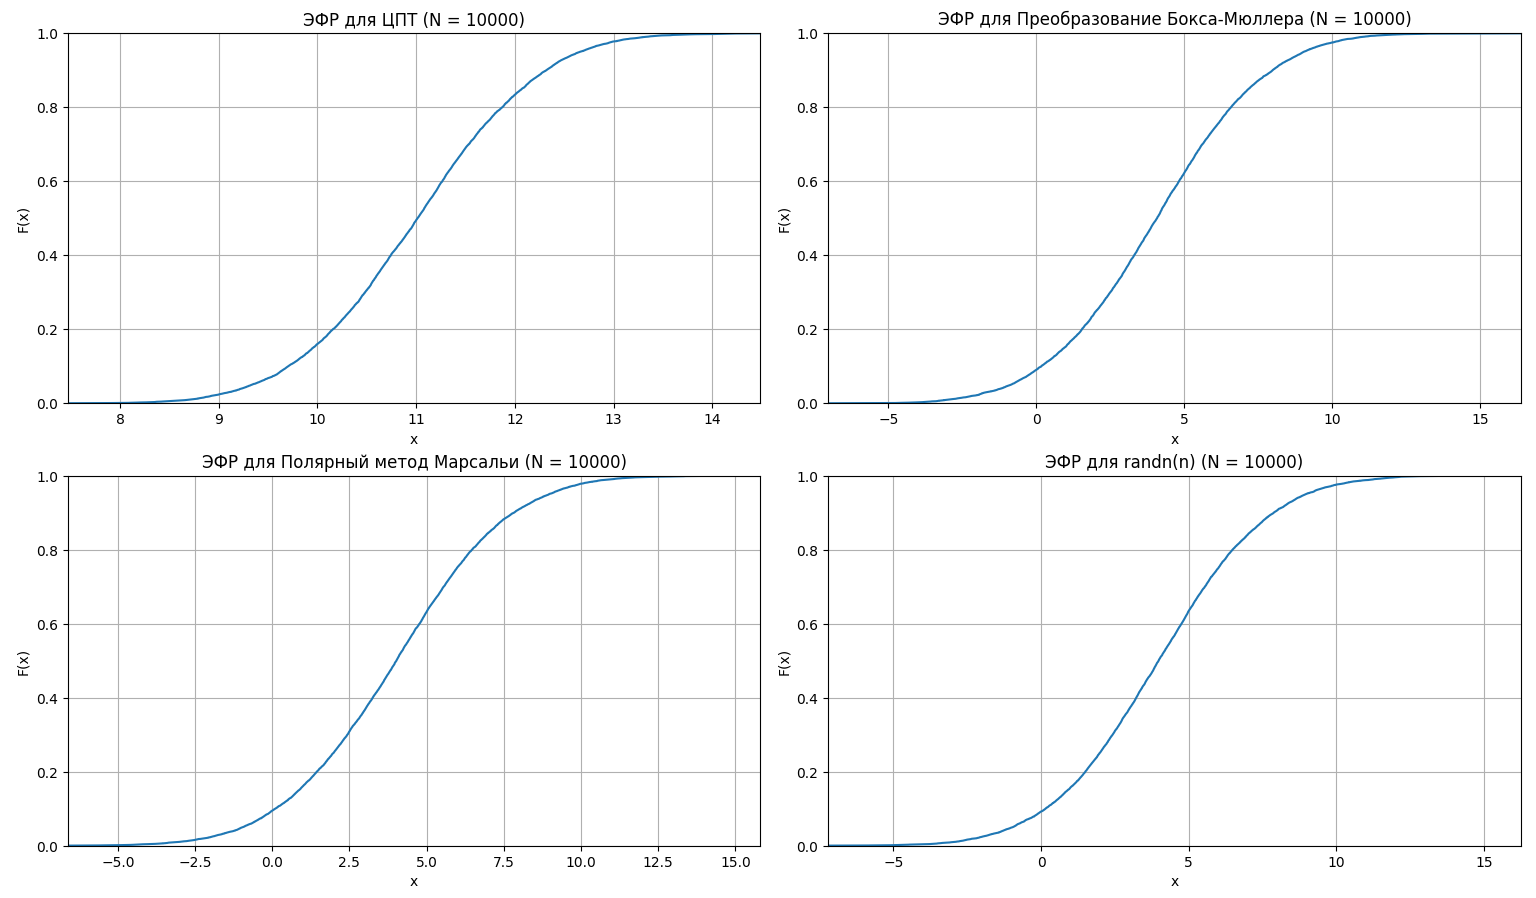
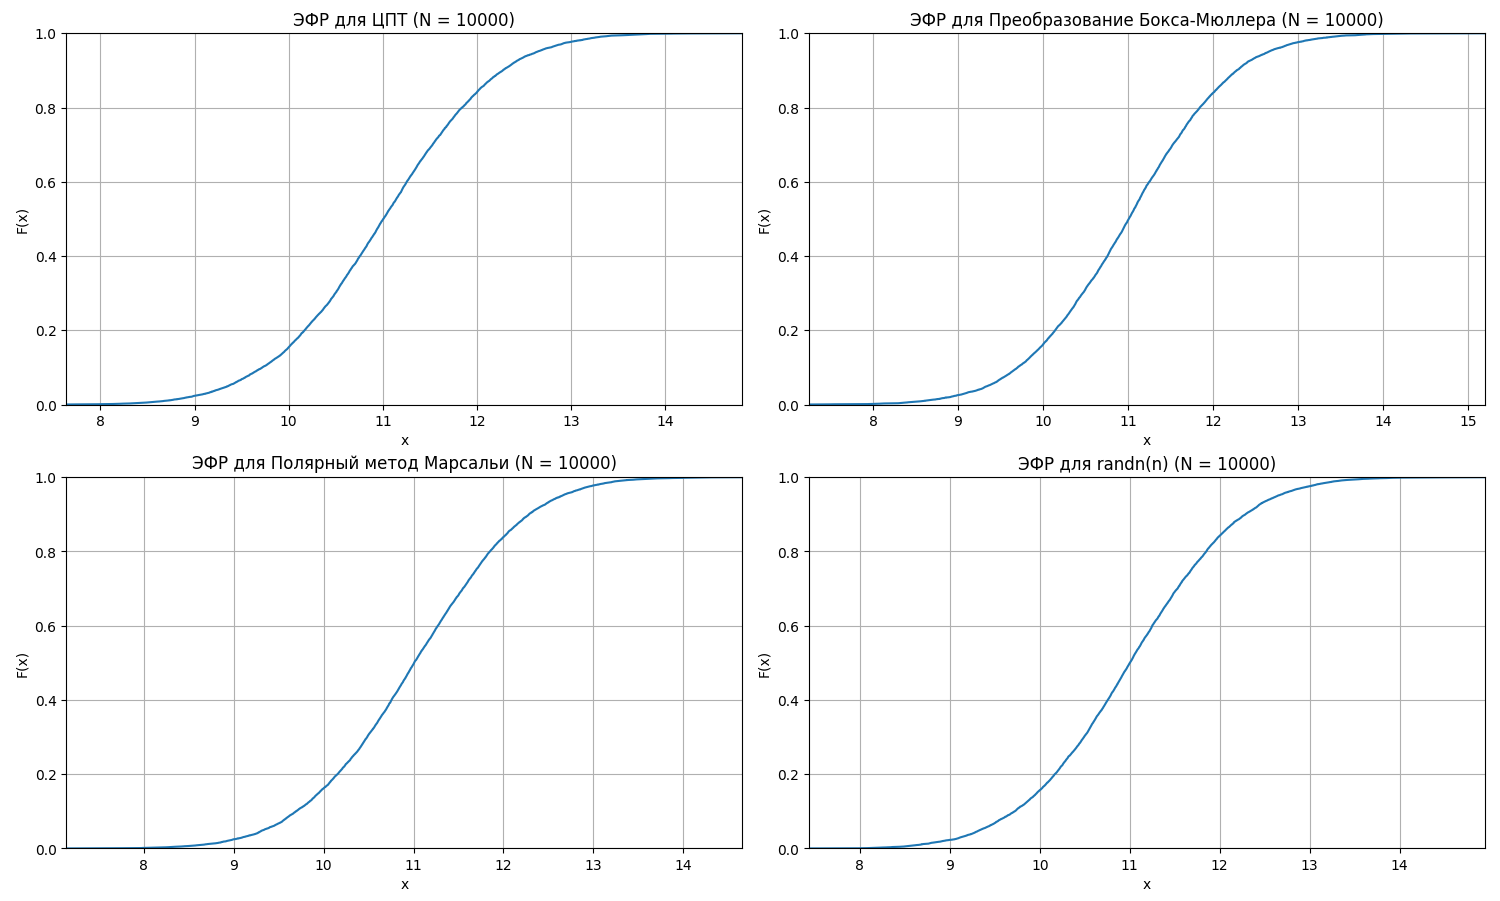
Добавление скриптов на Python

diff --git a/Lab2/psevdo_numbers.py b/Lab2/psevdo_numbers.py
@@ -1,0 +1,160 @@
+import numpy as np
+import matplotlib.pyplot as plt
+import scipy.stats as stats
+import math
+import pandas as pd
+
+def generate_central_limit(cnt, m, s):
+    n = 12
+    y = np.zeros(cnt)
+    for i in range(cnt):
+        r_sum = sum(np.random.random() for _ in range(n))
+        y[i] = m + s * (r_sum - n / 2)
+    return y
+
+def generate_box_muller(cnt, m, s):
+    z = np.zeros(cnt)
+    for i in range(0, cnt - 1, 2):
+        r1, r2 = np.random.random(), np.random.random()
+        z0 = math.cos(2 * math.pi * r1) * math.sqrt(-2 * math.log(r2))
+        z1 = math.sin(2 * math.pi * r1) * math.sqrt(-2 * math.log(r2))
+        z[i] = m + s * z0
+        if i + 1 < cnt:
+            z[i + 1] = m + s * z1
+    return z
+
+def generate_marsaglia(cnt, m, s):
+    z = np.zeros(cnt)
+    i = 0
+    while i < cnt - 1:
+        u, v = np.random.uniform(-1, 1, 2)
+        s_uv = u**2 + v**2
+        if 0 < s_uv < 1:
+            factor = math.sqrt(-2 * math.log(s_uv) / s_uv)
+            z[i] = m + s * u * factor
+            if i + 1 < cnt:
+                z[i + 1] = m + s * v * factor
+            i += 2
+    return z
+
+def generate_builtin(cnt, m, s):
+    return m + s * np.random.randn(cnt)
+
+def plot_histograms(dfs):
+    for df_name, df in dfs.items():
+        plt.figure(figsize=(15, 10))
+        for i, column in enumerate(df.columns):
+            plt.subplot(2, 2, i + 1)
+            plt.hist(df[column], bins=50)
+            plt.title(f'{column} ({df_name})')
+            plt.xlabel('x')
+            plt.ylabel('Частота')
+            plt.grid(True)
+        plt.tight_layout()
+        plt.show()
+
+def get_efr(data):
+    x = np.sort(data)
+    n = len(data)
+    y = np.arange(1, n + 1) / n
+    return x, y
+
+def plot_empirical_cdf(dfs):
+    for df_name, df in dfs.items():
+        plt.figure(figsize=(15, 10))
+        for i, column in enumerate(df.columns):
+            plt.subplot(2, 2, i + 1)
+            x, y = get_efr(df[column])
+            plt.plot(x, y)
+            plt.title(f'ЭФР для {column} ({df_name})')
+            plt.xlabel('x')
+            plt.ylabel('F(x)')
+            plt.grid(True)
+            plt.xlim(min(x), max(x))
+            plt.ylim(0, 1)
+        plt.tight_layout()
+        plt.show()
+
+def plot_scatter_matrices(dfs):
+    for df_name, df in dfs.items():
+        num_cols = len(df.columns)
+        fig, axes = plt.subplots(2, math.ceil(num_cols / 2), figsize=(10, 10))
+        axes = axes.flatten()
+        for i, column in enumerate(df.columns):
+            ax = axes[i]
+            data = df[column]
+            x_coords = data[::2]
+            y_coords = data[1::2]
+            min_len = min(len(x_coords), len(y_coords))
+            x_coords = x_coords[:min_len]
+            y_coords = y_coords[:min_len]
+            ax.scatter(x_coords, y_coords, s=10)
+            ax.set_title(f'Точечный график {column} ({df_name})')
+            ax.set_xlabel('X')
+            ax.set_ylabel('Y')
+            ax.grid(True)
+        plt.tight_layout()
+        plt.show()
+
+def plot_qq(dfs):
+    for df_name, df in dfs.items():
+        plt.figure(figsize=(15, 10))
+        for i, column in enumerate(df.columns):
+            plt.subplot(2, 2, i + 1)
+            stats.probplot(df[column], dist="norm", plot=plt)
+            plt.title(f'QQ-график для {column} ({df_name})')
+            plt.xlabel('Теоретические квантильные значения')
+            plt.ylabel('Эмпирические квантильные значения')
+            plt.grid(True)
+        plt.tight_layout()
+        plt.show()
+
+dfs = {
+    'N = 1000': pd.DataFrame({
+        'ЦПТ': generate_central_limit(1000, 11, 1),
+        'Преобразование Бокса-Мюллера': generate_box_muller(1000, 11, 1),
+        'Полярный метод Марсальи': generate_marsaglia(1000, 11, 1),
+        'randn(n)': generate_builtin(1000, 11, 1)
+    }),
+    'N = 5000': pd.DataFrame({
+        'ЦПТ': generate_central_limit(5000, 11, 1),
+        'Преобразование Бокса-Мюллера': generate_box_muller(5000, 11, 1),
+        'Полярный метод Марсальи': generate_marsaglia(5000, 11, 1),
+        'randn(n)': generate_builtin(5000, 11, 1)
+    }),
+    'N = 10000': pd.DataFrame({
+        'ЦПТ': generate_central_limit(10000, 11, 1),
+        'Преобразование Бокса-Мюллера': generate_box_muller(10000, 11, 1),
+        'Полярный метод Марсальи': generate_marsaglia(10000, 11, 1),
+        'randn(n)': generate_builtin(10000, 11, 1)
+    })
+}
+pd.set_option('display.max_columns', None)
+pd.set_option('display.expand_frame_repr', False)
+pd.set_option('display.float_format', '{:.6f}'.format)
+
+#plot_histograms(dfs)
+plot_empirical_cdf(dfs)
+plot_scatter_matrices(dfs)
+plot_qq(dfs)
+
+#print(dfs.keys())
+#print(dfs.get('N = 1000'))
+
+results = {}
+
+for df_name, df in dfs.items():
+    mean_vals = df.mean()
+    var_vals = df.var()
+    std_vals = df.std()
+
+    results[df_name] = pd.DataFrame({
+        'Математическое ожидание': mean_vals,
+        'Дисперсия': var_vals,
+        'СКО': std_vals
+    })
+
+# Вывод результатов
+for df_name, result in results.items():
+    print(f"\nРезультаты для {df_name}:")
+    print(result)

diff --git a/Lab2/Normal_distribution.py b/Lab2/Normal_distribution.py
@@ -1,0 +1,34 @@
+import numpy as np
+import matplotlib.pyplot as plt
+import scipy.stats as stats
+
+
+def plot_normal_distribution(mean, std):
+    x = np.linspace(mean - 4 * std, mean + 4 * std, 1000)
+    pdf = stats.norm.pdf(x, mean, std)  # Плотность вероятности (PDF)
+    cdf = stats.norm.cdf(x, mean, std)  # Функция распределения (CDF)
+
+    fig, axes = plt.subplots(1, 2, figsize=(12, 5))
+
+    # График PDF
+    axes[0].plot(x, pdf, label=f'({mean}, {std}²)', color='b')
+    axes[0].fill_between(x, pdf, alpha=0.2, color='b')
+    axes[0].set_title('Плотность вероятности')
+    axes[0].set_xlabel('x')
+    axes[0].set_ylabel('Плотность')
+    axes[0].legend()
+    axes[0].grid()
+
+    # График CDF
+    axes[1].plot(x, cdf, label=f'({mean}, {std}²)', color='r')
+    axes[1].set_title('Функция распределения')
+    axes[1].set_xlabel('x')
+    axes[1].set_ylabel('Вероятность')
+    axes[1].legend()
+    axes[1].grid()
+
+    plt.show()
+
+
+# Пример использования
+plot_normal_distribution(mean=11, std=1)
